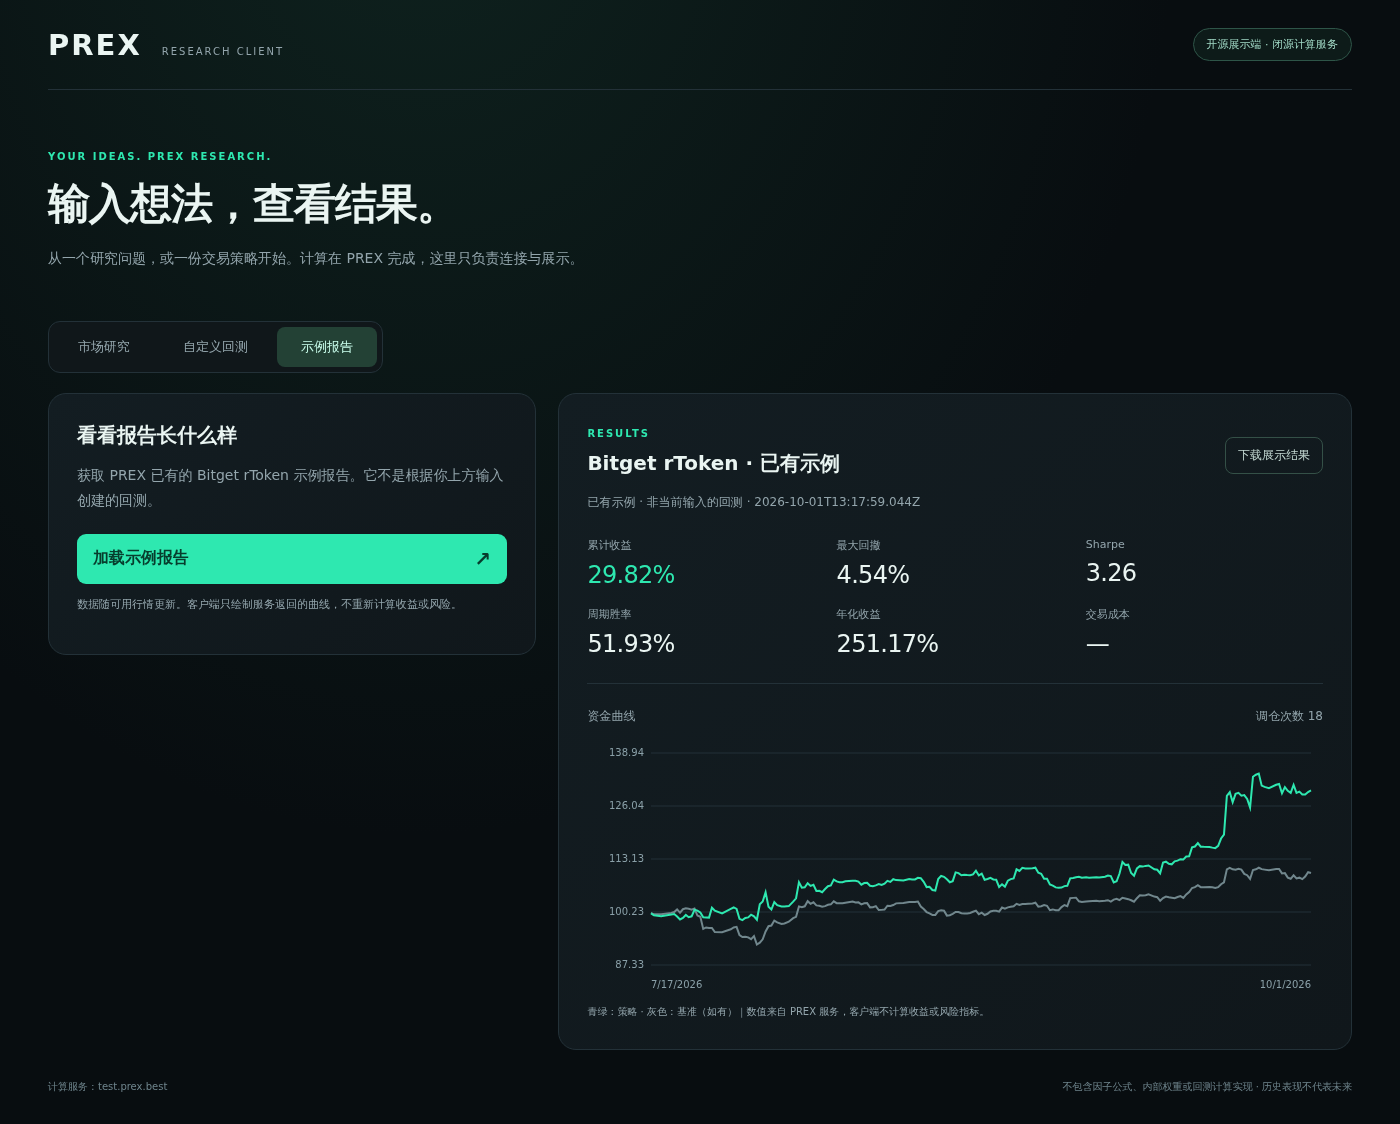
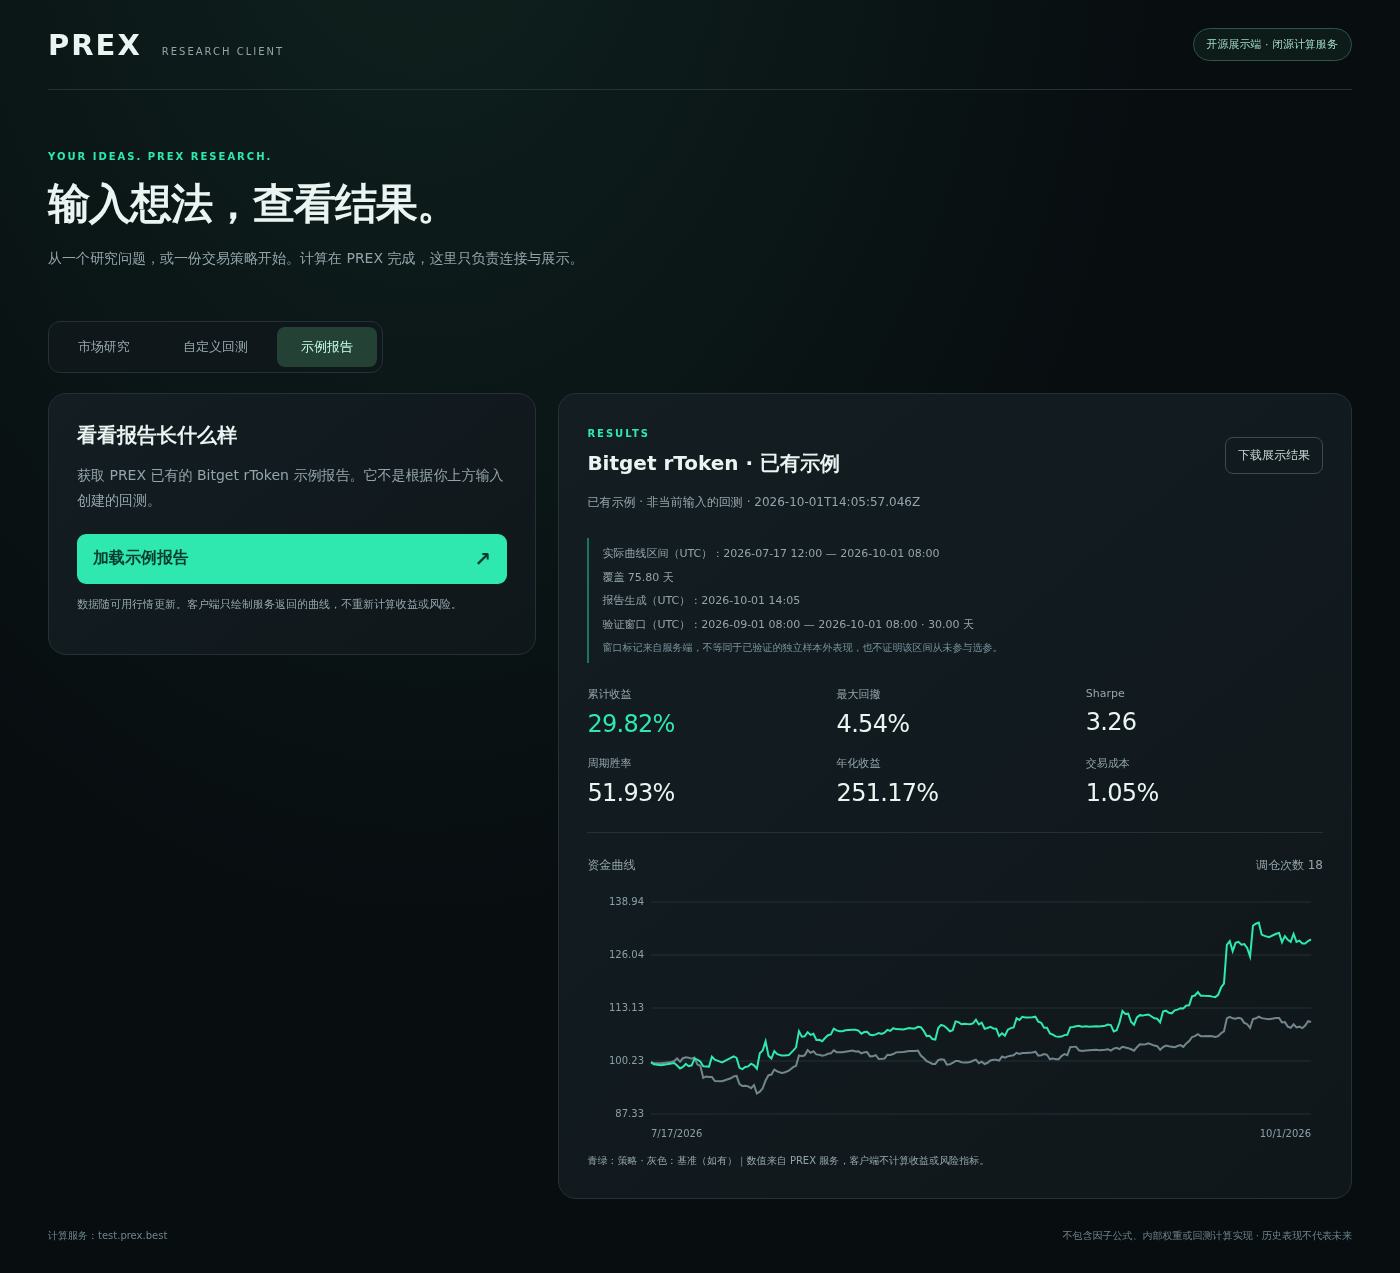
Improve report metadata, public preview and submission accuracy

diff --git a/public/styles.css b/public/styles.css
@@ -1,4 +1,5 @@
 :root{color-scheme:dark;--bg:#080d10;--panel:#10181d;--line:#233138;--muted:#93a5ac;--text:#eaf5f2;--green:#2ee8b0;--cyan:#47cddc;font-family:Inter,"PingFang SC","Microsoft YaHei",system-ui,sans-serif}
+.report-metadata{border-left:2px solid #2ee8b070;padding:2px 0 2px 13px;margin:0 0 24px}.report-metadata p{margin:4px 0;font-size:11px;overflow-wrap:anywhere}.report-metadata .hint{font-size:10px;color:#79939c}
 fieldset{border:0;padding:0;margin:24px 0 0;min-width:0}legend{font-size:12px;color:var(--green);padding:0;margin-bottom:12px}.row>label{min-width:0}input[type=date]{min-width:0}.cost-settings{border-top:1px solid var(--line);padding-top:16px;margin-top:20px}.cost-settings summary{font-size:11px;color:var(--muted);cursor:pointer;line-height:1.7}.cost-settings summary:focus-visible{outline:2px solid var(--cyan);outline-offset:4px}
 *{box-sizing:border-box}body{margin:0;background:radial-gradient(ellipse at 30% -15%,#15382d80,transparent 55%),var(--bg);color:var(--text)}button,input,select,textarea{font:inherit}button,a,input,textarea,select{-webkit-tap-highlight-color:transparent}button{cursor:pointer}a{color:inherit;text-decoration:none}button:focus-visible,a:focus-visible,input:focus-visible,select:focus-visible,textarea:focus-visible{outline:2px solid var(--cyan);outline-offset:4px}[hidden]{display:none!important}.shell{max-width:1440px;margin:auto;padding:0 48px}header{display:flex;justify-content:space-between;align-items:center;height:90px;border-bottom:1px solid var(--line)}.brand{font-size:29px;font-weight:850;letter-spacing:2px}.brand span{font-size:10px;font-weight:500;letter-spacing:2px;margin-left:20px;color:var(--muted)}.badge{border:1px solid #2e5548;background:#18382d55;color:#a0d8c5;border-radius:30px;padding:8px 13px;font-size:11px}.intro{padding:55px 0 28px}.eyebrow{color:var(--green);font-size:10px;font-weight:700;letter-spacing:2px}h1{font-size:clamp(28px,4vw,42px);font-weight:650;letter-spacing:-1px;margin:12px 0}p{font-size:14px;line-height:1.8;color:var(--muted)}h2{font-size:20px;margin:0 0 12px;font-weight:600}h3{font-weight:500}.tabs{display:flex;gap:5px;margin:8px 0 20px;width:max-content;border:1px solid var(--line);border-radius:12px;padding:5px;background:#10171a}.tabs button{background:none;color:var(--muted);border:0;padding:11px 24px;border-radius:8px;font-size:13px}.tabs button.selected{background:#234135;color:#caffed}.workspace{display:grid;grid-template-columns:minmax(300px,0.8fr) minmax(0,1.3fr);gap:22px;align-items:start}.panel{border:1px solid var(--line);background:linear-gradient(140deg,#131d22,#10171b);border-radius:18px;padding:28px}.composer p.hint:first-of-type{margin-top:-3px}.results{min-height:490px}.row{display:grid;grid-template-columns:1fr 1fr;gap:14px}label{display:block;font-size:12px;color:#bacacb;margin:20px 0 10px}input,textarea,select{display:block;width:100%;background:#0b1216;border:1px solid #2b3b41;color:var(--text);border-radius:9px;padding:12px;margin-top:9px;font-size:13px}textarea{resize:vertical;line-height:1.85;min-height:140px;max-height:560px}textarea::placeholder{color:#6f848e}.primary{display:flex;width:100%;align-items:center;justify-content:space-between;border:0;border-radius:9px;background:var(--green);color:#073d2d;font-weight:650;padding:13px 16px;margin-top:20px}.primary span{font-size:20px}.secondary{border:1px solid #345047;background:transparent;color:#c4d9d3;padding:9px 12px;border-radius:8px;font-size:12px}#refresh-job{margin-top:12px;width:100%}button:disabled{opacity:.5;cursor:wait}.hint{font-size:11px;line-height:1.85}.text-link{font-size:12px;color:var(--green)}.result-heading{display:flex;gap:12px;justify-content:space-between;align-items:center}.result-heading h2{margin-top:9px}#status{font-size:12px;margin:3px 0 24px}#status.error{color:#ffab9f}.empty{text-align:center;padding:40px 0}.empty p{font-size:12px}.empty-orbit{width:65px;height:65px;margin:0 auto 24px;border:1px solid #275446;border-radius:50%;position:relative;background:radial-gradient(circle,#2ee8b018,transparent)}.empty-orbit:after{content:"";position:absolute;inset:18px;border:1px solid var(--green);border-radius:50%}.metrics{display:grid;grid-template-columns:repeat(3,minmax(0,1fr));gap:18px 12px;padding-bottom:25px;border-bottom:1px solid var(--line)}.metric-label{font-size:11px;color:var(--muted)}.metric-value{font-size:24px;letter-spacing:-.7px;margin-top:8px;overflow-wrap:anywhere}.positive{color:var(--green)}.negative{color:#f49d97}.chart-heading{display:flex;justify-content:space-between;font-size:12px;margin-top:24px;color:var(--muted)}canvas{display:block;width:100%;height:260px;margin-top:8px}.chart-caption{font-size:10px;margin-bottom:0}.research-answer{white-space:pre-wrap;line-height:1.95;font-size:14px;color:#d5e4e1;overflow-wrap:anywhere}.market-card{border-top:1px solid var(--line);padding:18px 0}.market-card h3{font-size:14px;margin:0 0 12px}.market-data{display:grid;grid-template-columns:repeat(4,minmax(0,1fr));gap:10px}.market-data .metric-value{font-size:17px}.market-time{font-size:10px;color:var(--muted);margin-top:13px}footer{display:flex;flex-wrap:wrap;justify-content:space-between;gap:12px;padding:28px 0;color:#6e848c;font-size:10px;line-height:1.8}
 @media(max-width:900px){.shell{padding:0 22px}.workspace{grid-template-columns:1fr}.intro{padding-top:36px}.results{min-height:340px}.brand span{display:none}}@media(max-width:500px){.shell{padding:0 14px}.panel{padding:20px}.badge{font-size:9px;padding:7px}.tabs{width:100%}.tabs button{flex:1;padding:10px}.metric-value{font-size:21px}.market-data{grid-template-columns:1fr 1fr}header{height:72px}.intro p{font-size:12px}}

diff --git a/SUBMISSION.zh-CN.md b/SUBMISSION.zh-CN.md
@@ -2,7 +2,7 @@
 
 这份文档用于填写或补充官方表单，不代表项目已经提交、入选或获得闭源豁免。
 
-公开范围：产品说明、体验步骤、结果读取客户端，以及回测指标和净值数据。PREX 引擎、因子公式、权重和策略计算实现保持闭源。开源许可仅覆盖本仓库。
+公开范围：产品说明、体验步骤、研究与回测 API 展示客户端，以及回测指标和净值数据。客户端支持输入问题、提交用户自定义策略、查询任务和展示结果，不是只读报告下载器；PREX 引擎、因子公式、权重和策略计算实现保持闭源。开源许可仅覆盖本仓库。
 
 ## 在线体验与可选开源展示端
 
@@ -56,14 +56,14 @@ Bitget 研究入口已融合到 PREX 现有 AI 助手，不需要切换到独立
 
 大模型用于理解研究问题、提取标的和时间周期、结合接入的市场数据组织解释，以及处理用户追问。行情来源与模型文字生成分开说明；模型不保证涨跌，也不在本投研流程中自主交易。
 
-提交前在此补充**实际调用的模型名称及用途**。本草稿未核验当前部署的模型配置，不默认声称使用 Qwen。
+2026 年 10 月 1 日核验的 Bitget 投研调用模型为 **DeepSeek V4 Flash（`deepseek-v4-flash`）**，用于结合 Bitget 快照组织研究结论，不负责产生行情数值或执行交易。接口成功生成模型正文时返回 `prex-ai+bitget-v3`；失败、超时或无可用正文时返回 `prex-rules+bitget-v3`，此时应标明规则回退，不能描述成模型成功回答。该说明不宣称所有 PREX 功能都使用同一模型，也不声称使用 Qwen。
 
 ### 提交材料链接（逐行复制）
 
 ```text
 项目 Demo（需注册或登录）：https://test.prex.best/start
 公开项目说明与体验步骤：https://github.com/wcq-glhf/prex-bitget-ai-submission/tree/main/ai-trading-desk
-公开仓库（文档及结果读取客户端，不含 PREX 引擎）：https://github.com/wcq-glhf/prex-bitget-ai-submission
+公开仓库（研究／自定义回测展示客户端，不含 PREX 引擎）：https://github.com/wcq-glhf/prex-bitget-ai-submission
 已有产品演示视频（PREX / Binance Agent OS 概览，非 Bitget 专项录屏）：https://drive.google.com/file/d/18hOAWbHKjNPVI5ON2luKm4YQ1UTeMpHG/view?usp=drive_link
 ```
 
@@ -97,11 +97,11 @@ Bitget 研究入口已融合到 PREX 现有 AI 助手，不需要切换到独立
 
 **4. 当前进展与限制**
 
-Bitget rToken 研究与回测功能已经融合到 PREX 原有策略工作室。公开仓库提供 MIT 许可的只读客户端，用于获取服务器返回的报告；它不计算因子、不模拟成交，也不能独立复现回测。PREX 回测框架及策略计算保持闭源，因此当前材料仍需主办方确认是否接受闭源评审方式。
+Bitget rToken 研究与回测功能已经融合到 PREX 原有策略工作室。公开仓库提供 MIT 许可的 API 展示客户端，可输入研究问题、提交自己的策略参数、查询回测任务并展示指标与曲线；它不计算因子、不模拟成交，也不能离线独立复现回测。PREX 回测框架及策略计算保持闭源，因此当前材料仍需主办方确认是否接受闭源评审方式。
 
 **5. 交付材料**
 
-提供策略工作室、公开回测结果 JSON、净值 CSV、项目说明和结果读取客户端。已有产品视频作为补充介绍，不声称视频展示了当前 Bitget 策略或对应回测结果。
+提供策略工作室、公开回测结果 JSON、净值 CSV、项目说明和研究／回测展示客户端。已有产品视频作为补充介绍，不声称视频展示了当前 Bitget 策略或对应回测结果。
 
 ### 大模型的作用（草稿）
 
@@ -114,7 +114,8 @@ Bitget rToken 研究与回测功能已经融合到 PREX 原有策略工作室。
 项目说明与闭源范围：https://github.com/wcq-glhf/prex-bitget-ai-submission/tree/main/alpha-factory
 回测结果 JSON（动态报告，非生成代码）：https://test.prex.best/api/bitget-ai/factor
 净值与基准 CSV：https://test.prex.best/api/bitget-ai/factor?format=csv
-开源结果读取客户端（不计算或复现回测）：https://github.com/wcq-glhf/prex-bitget-ai-submission/blob/main/examples/get-backtest-report.mjs
+开源研究／回测展示客户端（不含计算引擎）：https://github.com/wcq-glhf/prex-bitget-ai-submission
+可选报告读取脚本（不计算或复现回测）：https://github.com/wcq-glhf/prex-bitget-ai-submission/blob/main/examples/get-backtest-report.mjs
 已有产品演示视频（非 Bitget 专项录屏）：https://drive.google.com/file/d/18hOAWbHKjNPVI5ON2luKm4YQ1UTeMpHG/view?usp=drive_link
 ```
 
@@ -150,7 +151,7 @@ The published submission deadline is September 27. Are new submissions or supple
 
 - [ ] 已确认提交／补交时间。
 - [ ] 已确认 Alpha Factory 的闭源替代方式；没有确认则不标记为符合该赛道代码要求。
-- [ ] 已补充真实模型名称和用途。
+- [x] 已核验 Bitget 投研模型名称、用途与规则回退标识；提交时仍需检查实际响应，不能将回退当成模型成功。
 - [ ] 已补充本人实际发布的 X 帖链接，并包含官方要求的标签、提及及引用帖。
 - [ ] 已用未登录浏览器检查仓库、报告、CSV 和视频访问权限。
 - [ ] 已从新注册账户走通完整投研任务；旧视频不夸大为新增功能录屏。

diff --git a/README.zh-CN.md b/README.zh-CN.md
@@ -16,6 +16,12 @@ PREX 网站、回测引擎、因子公式、内部权重、策略计算代码及
 
 本次参赛的 Bitget 功能请使用在线预览：**[市场研究](https://test.prex.best/start)** / **[策略工作室](https://test.prex.best/strategies?view=backtest)**。注册或登录 PREX 即可体验，研究和回测不需要连接交易账户或钱包。以上 Bitget 预览链接指向测试环境，与生产官网分开说明。
 
+## 效果预览
+
+![PREX 展示客户端的真实示例报告](./assets/display-preview.png)
+
+截图为可选 API 客户端在 2026 年 10 月 1 日展示的真实服务端示例，不是官网页面、用户自定义结果或收益承诺。报告显示实际曲线区间、生成时间和服务端标记的验证窗口，时间统一使用 UTC；窗口标签本身不证明该区间未参与选参。
+
 ## 开源展示客户端（开发者可选）
 
 仓库另外提供独立的本地 API 展示客户端。普通用户直接使用网站，不需要运行下面的程序。
@@ -32,10 +38,6 @@ npm start
 ```
 
 在同一台电脑打开 `npm start` 输出的本地访问地址，使用客户端期间保留该进程运行。这是可选的本地客户端，不代表将它部署到了 PREX 官网。
-
-![PREX 展示端真实示例报告](./assets/display-preview.png)
-
-截图为 2026 年 10 月 1 日获取的已有示例，不是用户自定义结果或收益承诺。
 
 - **市场研究：** 输入研究问题、标的和周期，PREX 返回基于 Bitget 数据的分析。
 - **自定义回测：** 填写 Bitget rToken 参数表单、输入适用市场的自然语言，或粘贴你自己的完整 strategy JSON；提交后查询进度，展示真实返回的收益、回撤、Sharpe 和资金曲线。
@@ -86,11 +88,11 @@ cd prex-bitget-ai-submission
 npm run report
 ```
 
-该示例向 PREX 服务请求现有回测报告，不包含选币、因子、模拟成交或收益计算代码。
+该示例向 PREX 服务请求现有回测报告，不包含选币、因子、模拟成交或收益计算代码。报告只转发白名单字段；缺失时间显示未提供，不把用户请求区间冒充为实际数据覆盖。
 
 ## 提交说明
 
-[查看两份填表草稿与提交检查表](./SUBMISSION.zh-CN.md)：包含项目介绍、逐行材料链接，以及询问主办方闭源评审方式的中英文消息。模型名称、实际 X 帖链接和官方认可情况仍需确认。
+[查看两份填表草稿与提交检查表](./SUBMISSION.zh-CN.md)：包含项目介绍、逐行材料链接、已核验的投研模型与回退说明，以及询问主办方闭源评审方式的中英文消息。实际 X 帖链接和官方认可情况仍需补充，不能把 GitHub 更新当作已完成报名。
 
 已有视频展示的是 PREX 通用产品和 Binance Agent OS 工作流，不能作为“已录制 Bitget 新功能”的证明。
 

diff --git a/README.md b/README.md
@@ -14,6 +14,12 @@ Visit **[prex.best](https://prex.best)** to use PREX in your browser. No local i
 
 For the Bitget features described in this submission, use the hosted preview: **[Market research](https://test.prex.best/start)** or **[Strategy Studio](https://test.prex.best/strategies?view=backtest)**. Register or sign in to PREX to use the interactive workflows; no exchange key or wallet connection is needed for research and backtesting. These Bitget preview links point to the test environment, not the production website.
 
+## Preview
+
+![PREX display client showing a real hosted sample report](./assets/display-preview.png)
+
+An actual hosted sample rendered by the optional API client on October 1, 2026, not the website UI or a custom-user result. The report shows its actual curve dates, generation time and server-labelled validation window. These labels alone do not prove an untouched out-of-sample test.
+
 ## Open-source display client (optional, for developers)
 
 The repository also includes a separate local API/display client. Running it is optional and is not necessary to use the PREX website.
@@ -30,10 +36,6 @@ npm start
 ```
 
 Open the local address printed by `npm start` on the same computer. Keep that process running while using the optional client; it does not deploy the client to the PREX website.
-
-![PREX display client showing an actual hosted sample report](./assets/display-preview.png)
-
-Screenshot: hosted example fetched on October 1, 2026, not a custom-user result or a promised return.
 
 - **Market research:** enter a question, default stock symbol and timeframe; PREX returns Bitget-backed research and market observations.
 - **Custom backtest:** fill in the Bitget rToken form, submit natural language for supported venues, or paste your own complete `strategy` JSON object. The client creates a hosted job, polls its status and draws the returned curve.
@@ -109,7 +111,7 @@ npm run report
 - [Public report / JSON](https://test.prex.best/api/bitget-ai/factor)
 - [Public equity data / CSV](https://test.prex.best/api/bitget-ai/factor?format=csv)
 
-The report updates with available market data; values can change between visits.
+The report updates with available market data; values can change between visits. Dates are shown in UTC. Custom-report dates reflect returned curve coverage, not an assumed date range. Missing timestamps remain explicitly unavailable. No financial metrics are recomputed by this client.
 
 ## Submission materials
 

diff --git a/ARCHITECTURE.md b/ARCHITECTURE.md
@@ -34,6 +34,8 @@ The natural-language API currently does not correctly route Bitget rToken, so th
 
 Public files implement HTTP transport, validation, allowlisted response projection, error handling, interface layout and canvas coordinates. Canvas coordinate scaling only places server-returned numbers on screen; it does not compute financial metrics.
 
+Reports expose only validated date fields, server-provided coverage duration and validation-window metadata alongside the allowlisted metrics and curve. Custom-report dates come from the returned curve extent, not the submitted strategy's requested dates; completion time comes from the hosted job. Missing fields stay unavailable. Both the browser download and command-line example use the same projection, including nested-field filtering. A validation-window label is not proof that the data was excluded from parameter selection.
+
 There are no PREX factor formulas, private weight tables, backtest simulation loops, P&L formulas, execution adapters or proprietary engine modules in this repository. Client tests use synthetic display data, not engine code. Unknown response fields are not forwarded to the browser or downloadable display result. Research text is rendered as text rather than executable HTML.
 
 The API remains a separately operated service. MIT licensing of this client does not grant access to PREX's server source or exempt users from API quotas and terms. A remote service returning results is not a local independent reproduction of its calculations.

diff --git a/ai-trading-desk/README.md b/ai-trading-desk/README.md
@@ -26,6 +26,8 @@ what evidence supports the view, and what would invalidate it?
 
 The user chooses the instruments and timeframe. This research workflow needs no exchange credentials and places no order.
 
+The research model configuration checked on October 1, 2026 uses **DeepSeek V4 Flash** to interpret the supplied Bitget evidence. `prex-ai+bitget-v3` identifies a model-generated response; `prex-rules+bitget-v3` identifies deterministic fallback. The optional client displays that fallback explicitly. A successful HTTP response alone does not mean the language model produced the answer.
+
 ## Optional developer client
 
 The repository also includes a separate open-source display client for API users. See [developer setup](../README.md#open-source-display-client-optional-for-developers). Its **市场研究** tab accepts a question, symbol and timeframe, calls PREX's research API, and displays the returned answer and market observations. It includes no indicator calculations, model credentials or proprietary prompts. Anonymous API access remains subject to the hosted API's quotas. Running this client is not required to use the website.
